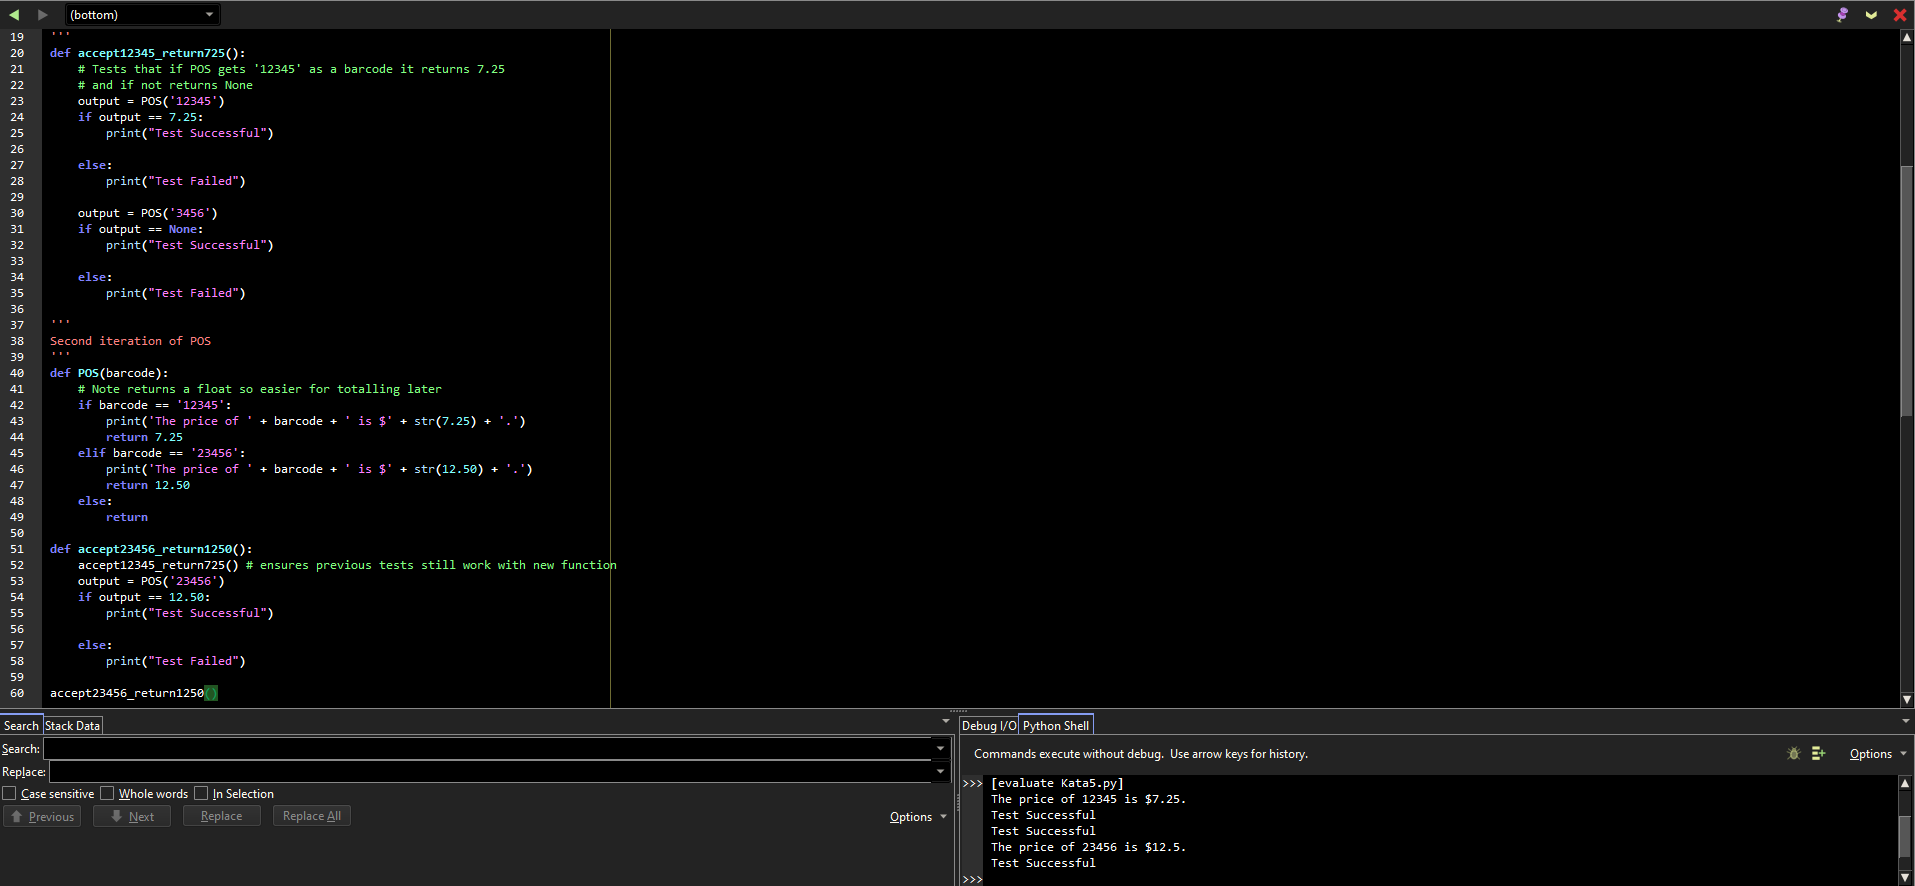
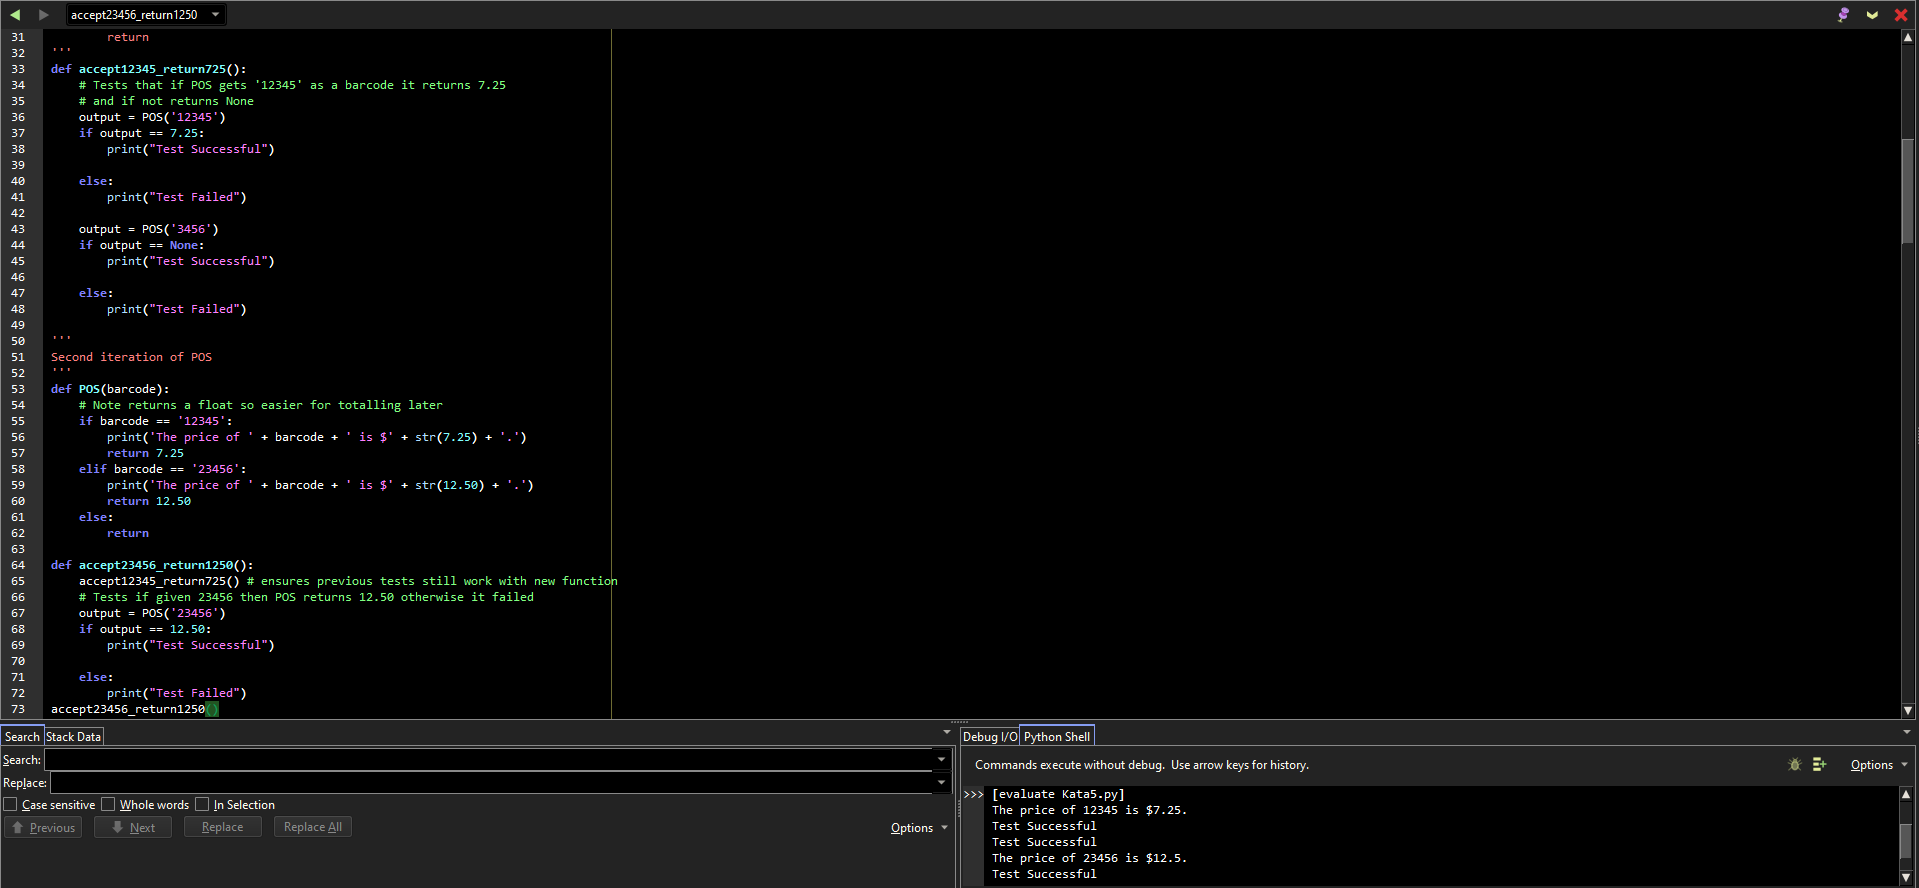
Fixed comments in tests and finalized screenshots

Changed region(s): [[0.0, 0.0, 1.0, 1.0]]

diff --git a/Kata5.py b/Kata5.py
@@ -11,7 +11,7 @@ I was unsure how you wanted to track development so I decided to track each step
 of POS() and total(), I will label them by iteration so you can see the
 process I take trying to implement TDD.  Sorry if this is not what you were
 expecting and lots to read, if you don't want to see the process skip the
-commented out POS iterations and go to the uncommented fizzBuzz at the bottom.
+commented out POS iterations and go to the uncommented POS at the bottom.
 
 Thank you!
 '''
@@ -60,16 +60,17 @@ def POS(barcode):
         return 12.50
     else:
         return
-'''    
+'''   
+
 def accept23456_return1250():
     accept12345_return725() # ensures previous tests still work with new function
+    # Tests if given 23456 then POS returns 12.50 otherwise it failed
     output = POS('23456')
     if output == 12.50:
         print("Test Successful")
         
     else:
         print("Test Failed")    
-
 
 '''
 Third iteration
@@ -92,6 +93,8 @@ def POS(barcode):
 def accept99999_returnError():
     accept23456_return1250() # ensures previous tests still work
     print()
+    # Tests that if given 99999 then it should output None otherwise it failed
+    # Visually ensure it is giving the correct error message of Error: barcode not found
     output = POS('99999')
     if output == None:
         print("Test Successful")
@@ -121,15 +124,17 @@ def POS(barcode):
 
 
 def acceptEmpty_returnError():
-    accept99999_returnError()
+    accept99999_returnError() # ensures all previous tests still pass
     print()
+    # Tests if given an emtpy input it returns None
+    # Visually ensure it is printing the correct message: Error: empty barcode
     output = POS('')
     if output == None:
         print("Test Successful")
         
     else:
         print("Test Failed")    
-        
+       
 '''
 First iteration of total
 
@@ -137,8 +142,10 @@ def total():
     total = 0
     numItems = input("How many items to scan?")
     for i in range(int(numItems)):
+        # Get each barcode of the number of items to scan
         barcode = input("Enter barcode: ")
         output = POS(barcode)
+        # calculate total, ignore None outputs
         if output == None:
             pass
         else:
@@ -151,7 +158,7 @@ def TestTotalCorrect():
     # Then enter 12345 and 23456 and 99999 and ''
     # ensure calculated total is 19.75
     total()
-    
+  
 '''
 Second iteration of total
 '''
@@ -159,14 +166,16 @@ def total():
     # in this iteration making it more readable to the user
     total = 0
     numItems = input("How many items to scan? ")
+    # Get each barcode of the number of items to scan
     for i in range(int(numItems)):
         barcode = input("Enter barcode: ")
         output = POS(barcode)
+        # calculate total, ignore None outputs
         print()
         if output == None:
             pass
         else:
             total += output
     print("The total owed is: " + str(total))
-    
-#TestTotalCorrect()      
+  
+TestTotalCorrect()   

diff --git a/Kata1.py b/Kata1.py
@@ -88,11 +88,11 @@ def fizzBuzz(userInput):
 '''
 
 def multiple5_returnBuzz():
-    # check if multiple of 5 is inputted into fizzBuzz it should return Fizz
+    # check if multiple of 5 is inputted into fizzBuzz it should return Buzz
     # If it doesn't then it is a failure
     
     
-    # First input 5 into fizzBuzz this should return fizz
+    # First input 5 into fizzBuzz this should return Buzz
     output = fizzBuzz(5)
     if output == "Buzz":
         print("Test Successful")
@@ -101,7 +101,7 @@ def multiple5_returnBuzz():
         print("Test Failed")
     
     multiple3_returnFizz() # ensures previous tests still pass
-             
+           
 '''
 Fourth iteration of fizzBuzz FINAL WORKING FUNCTION
 '''
@@ -116,7 +116,7 @@ def fizzBuzz(userInput):
         return
 
 def multiple3And5_returnFizzBuzz():
-    # check if multiple of 3 and 5 is inputted into fizzBuzz it should return Fizz
+    # check if multiple of 3 and 5 is inputted into fizzBuzz it should return FizzBuzz
     # If it doesn't then it is a failure
     
     # First input 15 into fizzBuzz which is a multiple of 3 and 5 it should return FizzBuzz
@@ -129,4 +129,4 @@ def multiple3And5_returnFizzBuzz():
     
     multiple5_returnBuzz() # ensures previous tests still pass
 
-#multiple3And5_returnFizzBuzz()
+multiple3And5_returnFizzBuzz()
